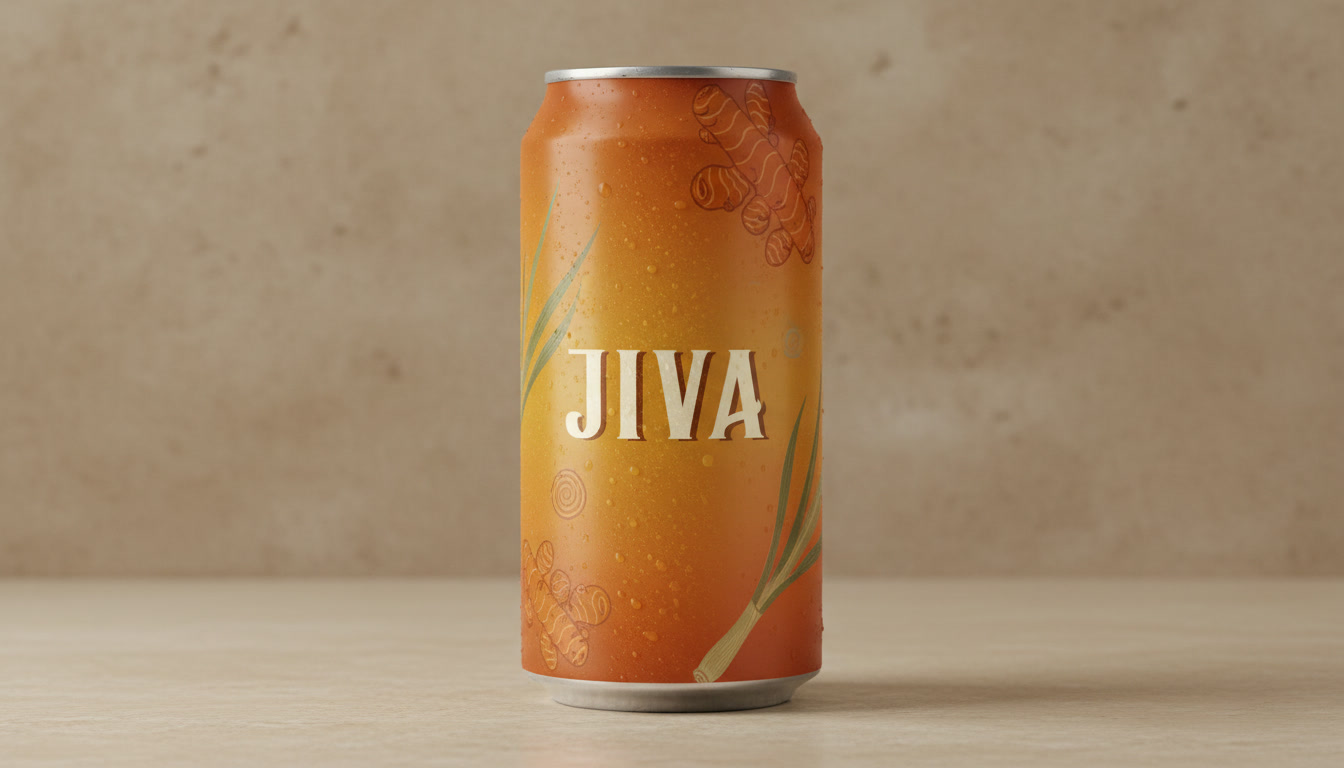
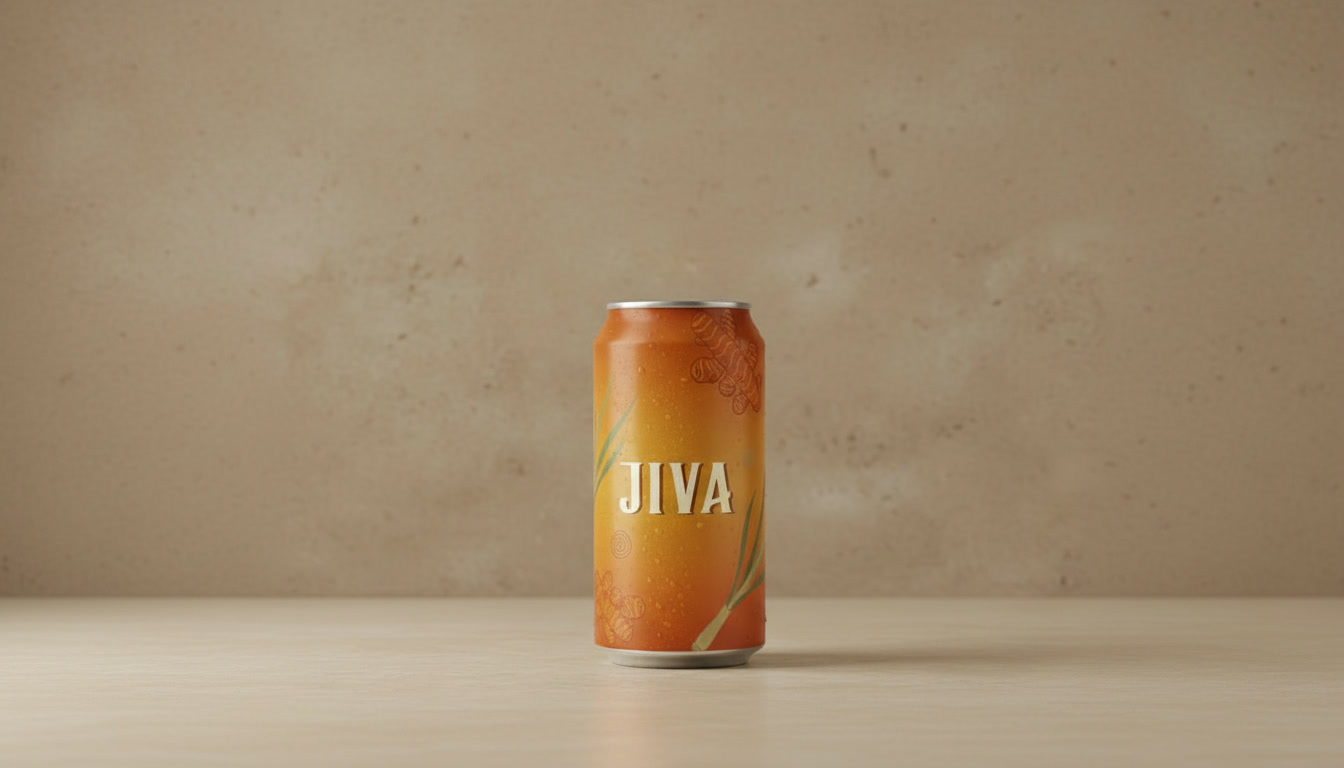
new background

diff --git a/components/ScrollStory.tsx b/components/ScrollStory.tsx
@@ -2,6 +2,7 @@ import React, { useRef, useState } from 'react';
 import { motion, useScroll, useTransform } from 'framer-motion';
 import { Send, ChevronDown, ChevronUp, ChevronDown as ChevronDownIcon } from 'lucide-react';
 import demoJiva from '../materials/demo jiva.jpg';
+import background from '../materials/background.jpg';
 import demoJivaBottle from '../materials/demo jiva removed.png';
 
 const easeInOutCubic = (t: number) =>
@@ -41,8 +42,9 @@ const ScrollStory: React.FC<ScrollStoryProps> = ({ email, setEmail, onJoin, join
   );
   const bottleZIndex = useTransform(smoothProgress, [0, 0.08, 0.14, 0.42, 0.58, 0.78, 1], [5, 30, 30, 18, 15, 10, 5]);
 
-  // ——— Background (base); ingredient step overlays applied separately ———
-  const bgImageOpacity = useTransform(smoothProgress, [0, 0.14, 0.22], [1, 0.2, 0]);
+  // ——— Background: demo jiva until bottle pops to max, then crossfade to background.jpg before bottle moves ———
+  const bgDemoJivaOpacity = useTransform(smoothProgress, [0, 0.08, 0.14], [1, 1, 0]);
+  const bgBackgroundOpacity = useTransform(smoothProgress, [0, 0.08, 0.14, 0.22], [0, 0, 1, 0]);
   const bgColor = useTransform(
     smoothProgress,
     [0, 0.14, 0.28, 0.30, 0.54, 0.60, 0.78, 0.86, 1],
@@ -103,11 +105,22 @@ const ScrollStory: React.FC<ScrollStoryProps> = ({ email, setEmail, onJoin, join
           <motion.div style={{ opacity: bgTurmericOpacity }} className="absolute inset-0 z-0 bg-[#C99A6B]/80" />
           <motion.div style={{ opacity: bgTamarindOpacity }} className="absolute inset-0 z-0 bg-[#8B6914]/75" />
           <motion.div
-            style={{ opacity: bgImageOpacity }}
+            style={{ opacity: bgDemoJivaOpacity }}
             className="absolute inset-0 z-0"
           >
             <img
               src={demoJiva}
+              alt=""
+              className="w-full h-full object-cover"
+            />
+            <div className="absolute inset-0 bg-gradient-to-t from-[#2D4F3E]/90 via-transparent to-black/20" />
+          </motion.div>
+          <motion.div
+            style={{ opacity: bgBackgroundOpacity }}
+            className="absolute inset-0 z-0"
+          >
+            <img
+              src={background}
               alt=""
               className="w-full h-full object-cover"
             />
@@ -128,7 +141,7 @@ const ScrollStory: React.FC<ScrollStoryProps> = ({ email, setEmail, onJoin, join
             <img
               src={demoJivaBottle}
               alt="Jamu Jiva"
-              className="w-[90%] min-w-[1500px] max-w-[1600px] h-auto object-contain drop-shadow-2xl"
+              className="w-[90%] min-w-[600px] max-w-[700px] h-auto object-contain drop-shadow-2xl"
             />
           </motion.div>
 
